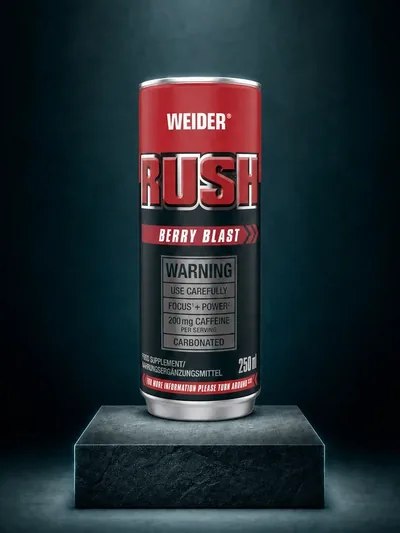
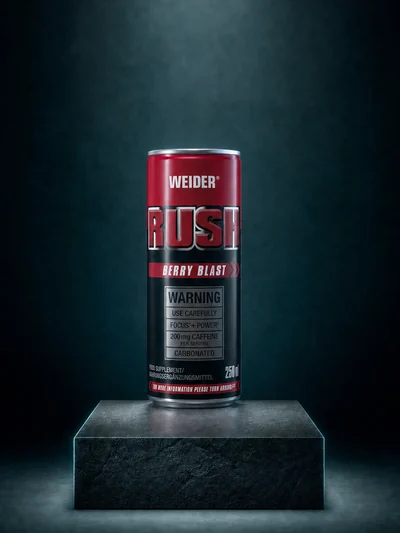
Deploy fc98a14 (noindex preview)

Changed region(s): [[0.18, 0.1201, 0.81, 0.9606], [0.72, 0.9306, 0.78, 0.9606], [0.57, 0.9306, 0.6, 0.9606]]

diff --git a/index.html b/index.html
@@ -11,9 +11,9 @@
 <link rel="preload" href="assets/fonts/Stardom-Regular.woff2" as="font" type="font/woff2" crossorigin>
 <link rel="preload" href="assets/fonts/CabinetGrotesk-Medium.woff2" as="font" type="font/woff2" crossorigin>
 <script>(function(){var r=document.documentElement;r.classList.add('js');function s(v){if(r.getAttribute('data-input')!==v)r.setAttribute('data-input',v)}addEventListener('pointerdown',function(){s('pointer')},true);addEventListener('keydown',function(e){if(e.key==='Shift'||e.key==='Control'||e.key==='Alt'||e.key==='Meta')return;s('key')},true)})();</script>
-<script src="assets/vendor/focus-guard.js?v=ce79688"></script>
-<link rel="stylesheet" href="assets/vendor/focus-guard.css?v=ce79688">
-<link rel="stylesheet" href="assets/site.css?v=ce79688">
+<script src="assets/vendor/focus-guard.js?v=fc98a14"></script>
+<link rel="stylesheet" href="assets/vendor/focus-guard.css?v=fc98a14">
+<link rel="stylesheet" href="assets/site.css?v=fc98a14">
 
 <link rel="preload" as="image" href="assets/img/hero/lift-1600.webp" imagesrcset="assets/img/hero/lift-900.webp 900w, assets/img/hero/lift-1600.webp 1600w, assets/img/hero/lift-2400.webp 2400w" imagesizes="100vw" media="(min-width: 761px)" fetchpriority="high">
 <link rel="preload" as="image" href="assets/img/hero/whey-900.webp" imagesrcset="assets/img/hero/whey-900.webp 900w, assets/img/hero/whey-1400.webp 1400w" imagesizes="100vw" media="(max-width: 760px)" fetchpriority="high">
@@ -23,7 +23,7 @@
 <body class="home">
 <a class="skip" href="#main">Hoppa í efni</a>
 <header class="hdr" id="hdr">
-  <a class="logo" href="index.html" aria-label="Weider, forsíða"><span class="logo-in"><img src="assets/logo/weider-white.webp?v=ce79688" alt="Weider" width="2400" height="565"></span></a>
+  <a class="logo" href="index.html" aria-label="Weider, forsíða"><span class="logo-in"><img src="assets/logo/weider-white.webp?v=fc98a14" alt="Weider" width="2400" height="565"></span></a>
   <nav class="pills" aria-label="Aðalvalmynd">
     <button class="shop-btn" type="button" aria-expanded="false" aria-controls="mega">Verslun <svg viewBox="0 0 24 24" fill="none" stroke="currentColor" stroke-width="2" aria-hidden="true"><path d="m6 9 6 6 6-6"/></svg></button>
     <a href="vorur.html?c=protein" data-nav="protein">Prótein</a>
@@ -193,7 +193,7 @@
       <div><p class="lbl">Þjónusta</p><span>Sending með Dropp, 1–2 virkir dagar</span><span>14 daga skilaréttur</span><a href="tel:+3547700295">770 0295</a><a href="mailto:weidervorur@gmail.com">weidervorur@gmail.com</a></div>
     </nav>
   </div>
-  <img class="ftr-logo" src="assets/logo/weider-white.webp?v=ce79688" alt="" width="2400" height="565" loading="lazy">
+  <img class="ftr-logo" src="assets/logo/weider-white.webp?v=fc98a14" alt="" width="2400" height="565" loading="lazy">
   <div class="ftr-legal"><span>Aura ehf. · kt. 560925-0500 · VSK 158878 · Austurkór 65, 203 Kópavogur</span><span>Frumgerð frá SNDR Studio · ekkert er selt hér</span></div>
 </footer>
 <div class="scrim" hidden></div>
@@ -202,10 +202,10 @@
   <div class="dr-list"></div>
   <div class="dr-f"><div class="dr-rows"></div><div class="dr-sum"><span>Samtals</span><strong class="dr-total">0 kr.</strong></div><p class="dr-note">Sending reiknast í næsta skrefi.</p><button class="btn red wide dr-go" type="button">Áfram í greiðslu</button><p class="dr-msg" role="status" aria-live="polite"></p></div>
 </aside>
-<script src="assets/vendor/gsap.min.js?v=ce79688" defer></script>
-<script src="assets/vendor/ScrollTrigger.min.js?v=ce79688" defer></script>
-<script src="assets/data.js?v=ce79688" defer></script>
-<script src="assets/site.js?v=ce79688" defer></script>
+<script src="assets/vendor/gsap.min.js?v=fc98a14" defer></script>
+<script src="assets/vendor/ScrollTrigger.min.js?v=fc98a14" defer></script>
+<script src="assets/data.js?v=fc98a14" defer></script>
+<script src="assets/site.js?v=fc98a14" defer></script>
 
 </body>
 </html>

diff --git a/askrift.html b/askrift.html
@@ -11,9 +11,9 @@
 <link rel="preload" href="assets/fonts/Stardom-Regular.woff2" as="font" type="font/woff2" crossorigin>
 <link rel="preload" href="assets/fonts/CabinetGrotesk-Medium.woff2" as="font" type="font/woff2" crossorigin>
 <script>(function(){var r=document.documentElement;r.classList.add('js');function s(v){if(r.getAttribute('data-input')!==v)r.setAttribute('data-input',v)}addEventListener('pointerdown',function(){s('pointer')},true);addEventListener('keydown',function(e){if(e.key==='Shift'||e.key==='Control'||e.key==='Alt'||e.key==='Meta')return;s('key')},true)})();</script>
-<script src="assets/vendor/focus-guard.js?v=ce79688"></script>
-<link rel="stylesheet" href="assets/vendor/focus-guard.css?v=ce79688">
-<link rel="stylesheet" href="assets/site.css?v=ce79688">
+<script src="assets/vendor/focus-guard.js?v=fc98a14"></script>
+<link rel="stylesheet" href="assets/vendor/focus-guard.css?v=fc98a14">
+<link rel="stylesheet" href="assets/site.css?v=fc98a14">
 
 <title>Áskrift · Weider á Íslandi</title>
 <meta name="description" content="Weider Áskrift: 10–15% afsláttur, frí heimsending og hristibrúsi í fyrstu sendingu. Greitt við hverja sendingu, enginn binditími.">
@@ -21,7 +21,7 @@
 <body class="ask">
 <a class="skip" href="#main">Hoppa í efni</a>
 <header class="hdr" id="hdr">
-  <a class="logo" href="index.html" aria-label="Weider, forsíða"><span class="logo-in"><img src="assets/logo/weider-white.webp?v=ce79688" alt="Weider" width="2400" height="565"></span></a>
+  <a class="logo" href="index.html" aria-label="Weider, forsíða"><span class="logo-in"><img src="assets/logo/weider-white.webp?v=fc98a14" alt="Weider" width="2400" height="565"></span></a>
   <nav class="pills" aria-label="Aðalvalmynd">
     <button class="shop-btn" type="button" aria-expanded="false" aria-controls="mega">Verslun <svg viewBox="0 0 24 24" fill="none" stroke="currentColor" stroke-width="2" aria-hidden="true"><path d="m6 9 6 6 6-6"/></svg></button>
     <a href="vorur.html?c=protein" data-nav="protein">Prótein</a>
@@ -112,7 +112,7 @@
       <div><p class="lbl">Þjónusta</p><span>Sending með Dropp, 1–2 virkir dagar</span><span>14 daga skilaréttur</span><a href="tel:+3547700295">770 0295</a><a href="mailto:weidervorur@gmail.com">weidervorur@gmail.com</a></div>
     </nav>
   </div>
-  <img class="ftr-logo" src="assets/logo/weider-white.webp?v=ce79688" alt="" width="2400" height="565" loading="lazy">
+  <img class="ftr-logo" src="assets/logo/weider-white.webp?v=fc98a14" alt="" width="2400" height="565" loading="lazy">
   <div class="ftr-legal"><span>Aura ehf. · kt. 560925-0500 · VSK 158878 · Austurkór 65, 203 Kópavogur</span><span>Frumgerð frá SNDR Studio · ekkert er selt hér</span></div>
 </footer>
 <div class="scrim" hidden></div>
@@ -121,10 +121,10 @@
   <div class="dr-list"></div>
   <div class="dr-f"><div class="dr-rows"></div><div class="dr-sum"><span>Samtals</span><strong class="dr-total">0 kr.</strong></div><p class="dr-note">Sending reiknast í næsta skrefi.</p><button class="btn red wide dr-go" type="button">Áfram í greiðslu</button><p class="dr-msg" role="status" aria-live="polite"></p></div>
 </aside>
-<script src="assets/vendor/gsap.min.js?v=ce79688" defer></script>
-<script src="assets/vendor/ScrollTrigger.min.js?v=ce79688" defer></script>
-<script src="assets/data.js?v=ce79688" defer></script>
-<script src="assets/site.js?v=ce79688" defer></script>
+<script src="assets/vendor/gsap.min.js?v=fc98a14" defer></script>
+<script src="assets/vendor/ScrollTrigger.min.js?v=fc98a14" defer></script>
+<script src="assets/data.js?v=fc98a14" defer></script>
+<script src="assets/site.js?v=fc98a14" defer></script>
 
 </body>
 </html>

diff --git a/vorur.html b/vorur.html
@@ -11,9 +11,9 @@
 <link rel="preload" href="assets/fonts/Stardom-Regular.woff2" as="font" type="font/woff2" crossorigin>
 <link rel="preload" href="assets/fonts/CabinetGrotesk-Medium.woff2" as="font" type="font/woff2" crossorigin>
 <script>(function(){var r=document.documentElement;r.classList.add('js');function s(v){if(r.getAttribute('data-input')!==v)r.setAttribute('data-input',v)}addEventListener('pointerdown',function(){s('pointer')},true);addEventListener('keydown',function(e){if(e.key==='Shift'||e.key==='Control'||e.key==='Alt'||e.key==='Meta')return;s('key')},true)})();</script>
-<script src="assets/vendor/focus-guard.js?v=ce79688"></script>
-<link rel="stylesheet" href="assets/vendor/focus-guard.css?v=ce79688">
-<link rel="stylesheet" href="assets/site.css?v=ce79688">
+<script src="assets/vendor/focus-guard.js?v=fc98a14"></script>
+<link rel="stylesheet" href="assets/vendor/focus-guard.css?v=fc98a14">
+<link rel="stylesheet" href="assets/site.css?v=fc98a14">
 
 <title>Vörur · Weider á Íslandi</title>
 <meta name="description" content="Allar Weider vörur: prótein, kreatín, pre-workout, amínósýrur, snarl og vítamín.">
@@ -21,7 +21,7 @@
 <body class="shop">
 <a class="skip" href="#main">Hoppa í efni</a>
 <header class="hdr" id="hdr">
-  <a class="logo" href="index.html" aria-label="Weider, forsíða"><span class="logo-in"><img src="assets/logo/weider-white.webp?v=ce79688" alt="Weider" width="2400" height="565"></span></a>
+  <a class="logo" href="index.html" aria-label="Weider, forsíða"><span class="logo-in"><img src="assets/logo/weider-white.webp?v=fc98a14" alt="Weider" width="2400" height="565"></span></a>
   <nav class="pills" aria-label="Aðalvalmynd">
     <button class="shop-btn" type="button" aria-expanded="false" aria-controls="mega">Verslun <svg viewBox="0 0 24 24" fill="none" stroke="currentColor" stroke-width="2" aria-hidden="true"><path d="m6 9 6 6 6-6"/></svg></button>
     <a href="vorur.html?c=protein" data-nav="protein">Prótein</a>
@@ -97,7 +97,7 @@
       <div><p class="lbl">Þjónusta</p><span>Sending með Dropp, 1–2 virkir dagar</span><span>14 daga skilaréttur</span><a href="tel:+3547700295">770 0295</a><a href="mailto:weidervorur@gmail.com">weidervorur@gmail.com</a></div>
     </nav>
   </div>
-  <img class="ftr-logo" src="assets/logo/weider-white.webp?v=ce79688" alt="" width="2400" height="565" loading="lazy">
+  <img class="ftr-logo" src="assets/logo/weider-white.webp?v=fc98a14" alt="" width="2400" height="565" loading="lazy">
   <div class="ftr-legal"><span>Aura ehf. · kt. 560925-0500 · VSK 158878 · Austurkór 65, 203 Kópavogur</span><span>Frumgerð frá SNDR Studio · ekkert er selt hér</span></div>
 </footer>
 <div class="scrim" hidden></div>
@@ -106,10 +106,10 @@
   <div class="dr-list"></div>
   <div class="dr-f"><div class="dr-rows"></div><div class="dr-sum"><span>Samtals</span><strong class="dr-total">0 kr.</strong></div><p class="dr-note">Sending reiknast í næsta skrefi.</p><button class="btn red wide dr-go" type="button">Áfram í greiðslu</button><p class="dr-msg" role="status" aria-live="polite"></p></div>
 </aside>
-<script src="assets/vendor/gsap.min.js?v=ce79688" defer></script>
-<script src="assets/vendor/ScrollTrigger.min.js?v=ce79688" defer></script>
-<script src="assets/data.js?v=ce79688" defer></script>
-<script src="assets/site.js?v=ce79688" defer></script>
+<script src="assets/vendor/gsap.min.js?v=fc98a14" defer></script>
+<script src="assets/vendor/ScrollTrigger.min.js?v=fc98a14" defer></script>
+<script src="assets/data.js?v=fc98a14" defer></script>
+<script src="assets/site.js?v=fc98a14" defer></script>
 
 </body>
 </html>

diff --git a/vara.html b/vara.html
@@ -11,9 +11,9 @@
 <link rel="preload" href="assets/fonts/Stardom-Regular.woff2" as="font" type="font/woff2" crossorigin>
 <link rel="preload" href="assets/fonts/CabinetGrotesk-Medium.woff2" as="font" type="font/woff2" crossorigin>
 <script>(function(){var r=document.documentElement;r.classList.add('js');function s(v){if(r.getAttribute('data-input')!==v)r.setAttribute('data-input',v)}addEventListener('pointerdown',function(){s('pointer')},true);addEventListener('keydown',function(e){if(e.key==='Shift'||e.key==='Control'||e.key==='Alt'||e.key==='Meta')return;s('key')},true)})();</script>
-<script src="assets/vendor/focus-guard.js?v=ce79688"></script>
-<link rel="stylesheet" href="assets/vendor/focus-guard.css?v=ce79688">
-<link rel="stylesheet" href="assets/site.css?v=ce79688">
+<script src="assets/vendor/focus-guard.js?v=fc98a14"></script>
+<link rel="stylesheet" href="assets/vendor/focus-guard.css?v=fc98a14">
+<link rel="stylesheet" href="assets/site.css?v=fc98a14">
 
 <title>Vara · Weider á Íslandi</title>
 <meta name="description" content="Weider vara.">
@@ -21,7 +21,7 @@
 <body class="product">
 <a class="skip" href="#main">Hoppa í efni</a>
 <header class="hdr" id="hdr">
-  <a class="logo" href="index.html" aria-label="Weider, forsíða"><span class="logo-in"><img src="assets/logo/weider-white.webp?v=ce79688" alt="Weider" width="2400" height="565"></span></a>
+  <a class="logo" href="index.html" aria-label="Weider, forsíða"><span class="logo-in"><img src="assets/logo/weider-white.webp?v=fc98a14" alt="Weider" width="2400" height="565"></span></a>
   <nav class="pills" aria-label="Aðalvalmynd">
     <button class="shop-btn" type="button" aria-expanded="false" aria-controls="mega">Verslun <svg viewBox="0 0 24 24" fill="none" stroke="currentColor" stroke-width="2" aria-hidden="true"><path d="m6 9 6 6 6-6"/></svg></button>
     <a href="vorur.html?c=protein" data-nav="protein">Prótein</a>
@@ -91,7 +91,7 @@
       <div><p class="lbl">Þjónusta</p><span>Sending með Dropp, 1–2 virkir dagar</span><span>14 daga skilaréttur</span><a href="tel:+3547700295">770 0295</a><a href="mailto:weidervorur@gmail.com">weidervorur@gmail.com</a></div>
     </nav>
   </div>
-  <img class="ftr-logo" src="assets/logo/weider-white.webp?v=ce79688" alt="" width="2400" height="565" loading="lazy">
+  <img class="ftr-logo" src="assets/logo/weider-white.webp?v=fc98a14" alt="" width="2400" height="565" loading="lazy">
   <div class="ftr-legal"><span>Aura ehf. · kt. 560925-0500 · VSK 158878 · Austurkór 65, 203 Kópavogur</span><span>Frumgerð frá SNDR Studio · ekkert er selt hér</span></div>
 </footer>
 <div class="scrim" hidden></div>
@@ -100,10 +100,10 @@
   <div class="dr-list"></div>
   <div class="dr-f"><div class="dr-rows"></div><div class="dr-sum"><span>Samtals</span><strong class="dr-total">0 kr.</strong></div><p class="dr-note">Sending reiknast í næsta skrefi.</p><button class="btn red wide dr-go" type="button">Áfram í greiðslu</button><p class="dr-msg" role="status" aria-live="polite"></p></div>
 </aside>
-<script src="assets/vendor/gsap.min.js?v=ce79688" defer></script>
-<script src="assets/vendor/ScrollTrigger.min.js?v=ce79688" defer></script>
-<script src="assets/data.js?v=ce79688" defer></script>
-<script src="assets/site.js?v=ce79688" defer></script>
+<script src="assets/vendor/gsap.min.js?v=fc98a14" defer></script>
+<script src="assets/vendor/ScrollTrigger.min.js?v=fc98a14" defer></script>
+<script src="assets/data.js?v=fc98a14" defer></script>
+<script src="assets/site.js?v=fc98a14" defer></script>
 
 </body>
 </html>

diff --git a/404.html b/404.html
@@ -11,16 +11,16 @@
 <link rel="preload" href="assets/fonts/Stardom-Regular.woff2" as="font" type="font/woff2" crossorigin>
 <link rel="preload" href="assets/fonts/CabinetGrotesk-Medium.woff2" as="font" type="font/woff2" crossorigin>
 <script>(function(){var r=document.documentElement;r.classList.add('js');function s(v){if(r.getAttribute('data-input')!==v)r.setAttribute('data-input',v)}addEventListener('pointerdown',function(){s('pointer')},true);addEventListener('keydown',function(e){if(e.key==='Shift'||e.key==='Control'||e.key==='Alt'||e.key==='Meta')return;s('key')},true)})();</script>
-<script src="assets/vendor/focus-guard.js?v=ce79688"></script>
-<link rel="stylesheet" href="assets/vendor/focus-guard.css?v=ce79688">
-<link rel="stylesheet" href="assets/site.css?v=ce79688">
+<script src="assets/vendor/focus-guard.js?v=fc98a14"></script>
+<link rel="stylesheet" href="assets/vendor/focus-guard.css?v=fc98a14">
+<link rel="stylesheet" href="assets/site.css?v=fc98a14">
 
 <title>Síða fannst ekki · Weider</title>
 </head>
 <body>
 <a class="skip" href="#main">Hoppa í efni</a>
 <header class="hdr" id="hdr">
-  <a class="logo" href="index.html" aria-label="Weider, forsíða"><span class="logo-in"><img src="assets/logo/weider-white.webp?v=ce79688" alt="Weider" width="2400" height="565"></span></a>
+  <a class="logo" href="index.html" aria-label="Weider, forsíða"><span class="logo-in"><img src="assets/logo/weider-white.webp?v=fc98a14" alt="Weider" width="2400" height="565"></span></a>
   <nav class="pills" aria-label="Aðalvalmynd">
     <button class="shop-btn" type="button" aria-expanded="false" aria-controls="mega">Verslun <svg viewBox="0 0 24 24" fill="none" stroke="currentColor" stroke-width="2" aria-hidden="true"><path d="m6 9 6 6 6-6"/></svg></button>
     <a href="vorur.html?c=protein" data-nav="protein">Prótein</a>
@@ -84,7 +84,7 @@
       <div><p class="lbl">Þjónusta</p><span>Sending með Dropp, 1–2 virkir dagar</span><span>14 daga skilaréttur</span><a href="tel:+3547700295">770 0295</a><a href="mailto:weidervorur@gmail.com">weidervorur@gmail.com</a></div>
     </nav>
   </div>
-  <img class="ftr-logo" src="assets/logo/weider-white.webp?v=ce79688" alt="" width="2400" height="565" loading="lazy">
+  <img class="ftr-logo" src="assets/logo/weider-white.webp?v=fc98a14" alt="" width="2400" height="565" loading="lazy">
   <div class="ftr-legal"><span>Aura ehf. · kt. 560925-0500 · VSK 158878 · Austurkór 65, 203 Kópavogur</span><span>Frumgerð frá SNDR Studio · ekkert er selt hér</span></div>
 </footer>
 <div class="scrim" hidden></div>
@@ -93,10 +93,10 @@
   <div class="dr-list"></div>
   <div class="dr-f"><div class="dr-rows"></div><div class="dr-sum"><span>Samtals</span><strong class="dr-total">0 kr.</strong></div><p class="dr-note">Sending reiknast í næsta skrefi.</p><button class="btn red wide dr-go" type="button">Áfram í greiðslu</button><p class="dr-msg" role="status" aria-live="polite"></p></div>
 </aside>
-<script src="assets/vendor/gsap.min.js?v=ce79688" defer></script>
-<script src="assets/vendor/ScrollTrigger.min.js?v=ce79688" defer></script>
-<script src="assets/data.js?v=ce79688" defer></script>
-<script src="assets/site.js?v=ce79688" defer></script>
+<script src="assets/vendor/gsap.min.js?v=fc98a14" defer></script>
+<script src="assets/vendor/ScrollTrigger.min.js?v=fc98a14" defer></script>
+<script src="assets/data.js?v=fc98a14" defer></script>
+<script src="assets/site.js?v=fc98a14" defer></script>
 
 </body>
 </html>

diff --git a/assets/site.css b/assets/site.css
@@ -201,7 +201,7 @@ ul { padding: 0; list-style: none; }
 .deal-tile { position: relative; overflow: hidden; border-radius: var(--r-card); background: var(--red); color: #fff; padding: 28px; display: flex; flex-direction: column; justify-content: space-between; min-height: 300px; }
 .deal-tile .lbl { color: rgba(255,255,255,.8); }
 .deal-tile .h2 { font-size: clamp(40px, 4vw, 60px); margin-top: auto; margin-bottom: 24px; }
-.deal-tile::before { content: ""; position: absolute; left: 34px; right: 34px; top: 58px; aspect-ratio: 1390 / 1248; background: rgba(0,0,0,.2); -webkit-mask: url(logo/weider-bust.webp?v=ce79688) no-repeat center / contain; mask: url(logo/weider-bust.webp?v=ce79688) no-repeat center / contain; pointer-events: none; }
+.deal-tile::before { content: ""; position: absolute; left: 34px; right: 34px; top: 58px; aspect-ratio: 1390 / 1248; background: rgba(0,0,0,.2); -webkit-mask: url(logo/weider-bust.webp?v=fc98a14) no-repeat center / contain; mask: url(logo/weider-bust.webp?v=fc98a14) no-repeat center / contain; pointer-events: none; }
 @media (max-width: 760px) { .deal-tile::before { left: auto; right: 18px; top: 50%; transform: translateY(-50%); width: 32%; } }
 .deal-arrows { display: flex; gap: 8px; }
 .arr { width: 46px; height: 46px; border-radius: 999px; display: grid; place-items: center; background: rgba(255,255,255,.16); color: #fff; transition: background-color .25s, opacity .25s; }
@@ -872,3 +872,10 @@ html.logo-off .logo-in { opacity: 0 !important; transition: opacity .25s; }
 }
 /* invisible until the script has set the intro's starting scale (failsafe after 3 s) */
 .js .hero:not(.go) .hero-main img { opacity: 0; animation: failsafe .01s 3s forwards; }
+
+/* spotlight photo: fixed 4:5 shape, pinned while the quick-buy column scrolls (it used to stretch to the column height and
+   zoom the pouch into a giant crop on mid-size screens) */
+@media (min-width: 901px) {
+  .spot-card { align-items: start; }
+  .spot-l { min-height: 0; aspect-ratio: 4 / 5; position: sticky; top: calc(var(--hdr) + 16px); max-height: calc(100vh - var(--hdr) - 32px); border-radius: 0 var(--r-frame) var(--r-frame) 0; }
+}
